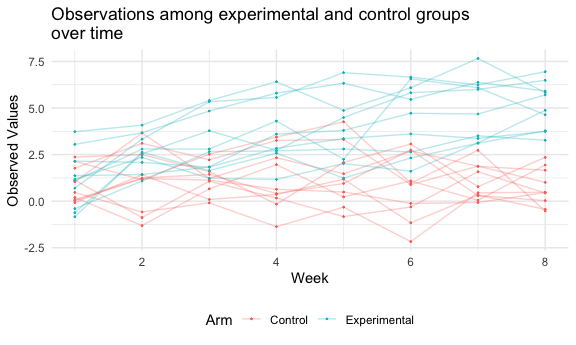
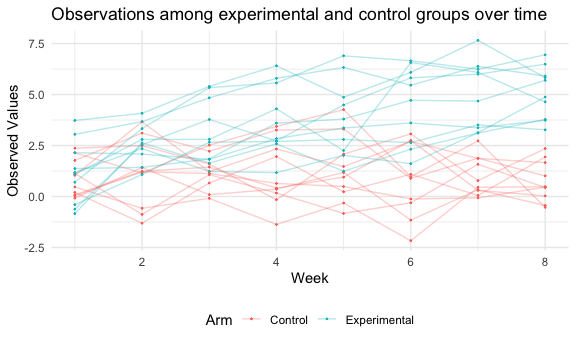
Edits to problems 2 and 3

diff --git a/p8105_hw5_hl2738.md b/p8105_hw5_hl2738.md
@@ -2,7 +2,7 @@ P8105 Homework 5
 ================
 Heidi Lumish
 
-## Problem 1
+## Problem 1: Homicides
 
 #### Import the data
 
@@ -24,17 +24,6 @@ homicides_df = read_csv(url(urlfile), na = c("", "Unknown")) %>%
   relocate(city_state) %>% 
   filter(city_state != "Tulsa, AL")
 ```
-
-    ## Rows: 52179 Columns: 12
-
-    ## ── Column specification ────────────────────────────────────────────────────────
-    ## Delimiter: ","
-    ## chr (8): uid, victim_last, victim_first, victim_race, victim_sex, city, stat...
-    ## dbl (4): reported_date, victim_age, lat, lon
-
-    ## 
-    ## ℹ Use `spec()` to retrieve the full column specification for this data.
-    ## ℹ Specify the column types or set `show_col_types = FALSE` to quiet this message.
 
 #### Baltimore, MD
 
@@ -59,12 +48,16 @@ baltimore_test =
 
 baltimore_test %>% 
   broom::tidy() %>% 
-  knitr::kable()
+  knitr::kable(
+    caption = "Estimate for proportion of unsolved homicides in Baltimore, MD"
+  )
 ```
 
 |  estimate | statistic | p.value | parameter |  conf.low | conf.high | method                                               | alternative |
 |----------:|----------:|--------:|----------:|----------:|----------:|:-----------------------------------------------------|:------------|
 | 0.6455607 |   239.011 |       0 |         1 | 0.6275625 | 0.6631599 | 1-sample proportions test with continuity correction | two.sided   |
+
+Estimate for proportion of unsolved homicides in Baltimore, MD
 
 #### All cities
 
@@ -178,7 +171,7 @@ results_df %>%
 
 <img src="p8105_hw5_hl2738_files/figure-gfm/unnamed-chunk-5-1.png" width="90%" />
 
-## Problem 2
+## Problem 2: Longitudinal Study
 
 #### Import and tidy the data
 
@@ -218,206 +211,6 @@ observations = files_df %>%
   mutate(week = as.numeric(week))
 ```
 
-    ## Rows: 1 Columns: 8
-
-    ## ── Column specification ────────────────────────────────────────────────────────
-    ## Delimiter: ","
-    ## dbl (8): week_1, week_2, week_3, week_4, week_5, week_6, week_7, week_8
-
-    ## 
-    ## ℹ Use `spec()` to retrieve the full column specification for this data.
-    ## ℹ Specify the column types or set `show_col_types = FALSE` to quiet this message.
-
-    ## Rows: 1 Columns: 8
-
-    ## ── Column specification ────────────────────────────────────────────────────────
-    ## Delimiter: ","
-    ## dbl (8): week_1, week_2, week_3, week_4, week_5, week_6, week_7, week_8
-
-    ## 
-    ## ℹ Use `spec()` to retrieve the full column specification for this data.
-    ## ℹ Specify the column types or set `show_col_types = FALSE` to quiet this message.
-
-    ## Rows: 1 Columns: 8
-
-    ## ── Column specification ────────────────────────────────────────────────────────
-    ## Delimiter: ","
-    ## dbl (8): week_1, week_2, week_3, week_4, week_5, week_6, week_7, week_8
-
-    ## 
-    ## ℹ Use `spec()` to retrieve the full column specification for this data.
-    ## ℹ Specify the column types or set `show_col_types = FALSE` to quiet this message.
-
-    ## Rows: 1 Columns: 8
-
-    ## ── Column specification ────────────────────────────────────────────────────────
-    ## Delimiter: ","
-    ## dbl (8): week_1, week_2, week_3, week_4, week_5, week_6, week_7, week_8
-
-    ## 
-    ## ℹ Use `spec()` to retrieve the full column specification for this data.
-    ## ℹ Specify the column types or set `show_col_types = FALSE` to quiet this message.
-
-    ## Rows: 1 Columns: 8
-
-    ## ── Column specification ────────────────────────────────────────────────────────
-    ## Delimiter: ","
-    ## dbl (8): week_1, week_2, week_3, week_4, week_5, week_6, week_7, week_8
-
-    ## 
-    ## ℹ Use `spec()` to retrieve the full column specification for this data.
-    ## ℹ Specify the column types or set `show_col_types = FALSE` to quiet this message.
-
-    ## Rows: 1 Columns: 8
-
-    ## ── Column specification ────────────────────────────────────────────────────────
-    ## Delimiter: ","
-    ## dbl (8): week_1, week_2, week_3, week_4, week_5, week_6, week_7, week_8
-
-    ## 
-    ## ℹ Use `spec()` to retrieve the full column specification for this data.
-    ## ℹ Specify the column types or set `show_col_types = FALSE` to quiet this message.
-
-    ## Rows: 1 Columns: 8
-
-    ## ── Column specification ────────────────────────────────────────────────────────
-    ## Delimiter: ","
-    ## dbl (8): week_1, week_2, week_3, week_4, week_5, week_6, week_7, week_8
-
-    ## 
-    ## ℹ Use `spec()` to retrieve the full column specification for this data.
-    ## ℹ Specify the column types or set `show_col_types = FALSE` to quiet this message.
-
-    ## Rows: 1 Columns: 8
-
-    ## ── Column specification ────────────────────────────────────────────────────────
-    ## Delimiter: ","
-    ## dbl (8): week_1, week_2, week_3, week_4, week_5, week_6, week_7, week_8
-
-    ## 
-    ## ℹ Use `spec()` to retrieve the full column specification for this data.
-    ## ℹ Specify the column types or set `show_col_types = FALSE` to quiet this message.
-
-    ## Rows: 1 Columns: 8
-
-    ## ── Column specification ────────────────────────────────────────────────────────
-    ## Delimiter: ","
-    ## dbl (8): week_1, week_2, week_3, week_4, week_5, week_6, week_7, week_8
-
-    ## 
-    ## ℹ Use `spec()` to retrieve the full column specification for this data.
-    ## ℹ Specify the column types or set `show_col_types = FALSE` to quiet this message.
-
-    ## Rows: 1 Columns: 8
-
-    ## ── Column specification ────────────────────────────────────────────────────────
-    ## Delimiter: ","
-    ## dbl (8): week_1, week_2, week_3, week_4, week_5, week_6, week_7, week_8
-
-    ## 
-    ## ℹ Use `spec()` to retrieve the full column specification for this data.
-    ## ℹ Specify the column types or set `show_col_types = FALSE` to quiet this message.
-
-    ## Rows: 1 Columns: 8
-
-    ## ── Column specification ────────────────────────────────────────────────────────
-    ## Delimiter: ","
-    ## dbl (8): week_1, week_2, week_3, week_4, week_5, week_6, week_7, week_8
-
-    ## 
-    ## ℹ Use `spec()` to retrieve the full column specification for this data.
-    ## ℹ Specify the column types or set `show_col_types = FALSE` to quiet this message.
-
-    ## Rows: 1 Columns: 8
-
-    ## ── Column specification ────────────────────────────────────────────────────────
-    ## Delimiter: ","
-    ## dbl (8): week_1, week_2, week_3, week_4, week_5, week_6, week_7, week_8
-
-    ## 
-    ## ℹ Use `spec()` to retrieve the full column specification for this data.
-    ## ℹ Specify the column types or set `show_col_types = FALSE` to quiet this message.
-
-    ## Rows: 1 Columns: 8
-
-    ## ── Column specification ────────────────────────────────────────────────────────
-    ## Delimiter: ","
-    ## dbl (8): week_1, week_2, week_3, week_4, week_5, week_6, week_7, week_8
-
-    ## 
-    ## ℹ Use `spec()` to retrieve the full column specification for this data.
-    ## ℹ Specify the column types or set `show_col_types = FALSE` to quiet this message.
-
-    ## Rows: 1 Columns: 8
-
-    ## ── Column specification ────────────────────────────────────────────────────────
-    ## Delimiter: ","
-    ## dbl (8): week_1, week_2, week_3, week_4, week_5, week_6, week_7, week_8
-
-    ## 
-    ## ℹ Use `spec()` to retrieve the full column specification for this data.
-    ## ℹ Specify the column types or set `show_col_types = FALSE` to quiet this message.
-
-    ## Rows: 1 Columns: 8
-
-    ## ── Column specification ────────────────────────────────────────────────────────
-    ## Delimiter: ","
-    ## dbl (8): week_1, week_2, week_3, week_4, week_5, week_6, week_7, week_8
-
-    ## 
-    ## ℹ Use `spec()` to retrieve the full column specification for this data.
-    ## ℹ Specify the column types or set `show_col_types = FALSE` to quiet this message.
-
-    ## Rows: 1 Columns: 8
-
-    ## ── Column specification ────────────────────────────────────────────────────────
-    ## Delimiter: ","
-    ## dbl (8): week_1, week_2, week_3, week_4, week_5, week_6, week_7, week_8
-
-    ## 
-    ## ℹ Use `spec()` to retrieve the full column specification for this data.
-    ## ℹ Specify the column types or set `show_col_types = FALSE` to quiet this message.
-
-    ## Rows: 1 Columns: 8
-
-    ## ── Column specification ────────────────────────────────────────────────────────
-    ## Delimiter: ","
-    ## dbl (8): week_1, week_2, week_3, week_4, week_5, week_6, week_7, week_8
-
-    ## 
-    ## ℹ Use `spec()` to retrieve the full column specification for this data.
-    ## ℹ Specify the column types or set `show_col_types = FALSE` to quiet this message.
-
-    ## Rows: 1 Columns: 8
-
-    ## ── Column specification ────────────────────────────────────────────────────────
-    ## Delimiter: ","
-    ## dbl (8): week_1, week_2, week_3, week_4, week_5, week_6, week_7, week_8
-
-    ## 
-    ## ℹ Use `spec()` to retrieve the full column specification for this data.
-    ## ℹ Specify the column types or set `show_col_types = FALSE` to quiet this message.
-
-    ## Rows: 1 Columns: 8
-
-    ## ── Column specification ────────────────────────────────────────────────────────
-    ## Delimiter: ","
-    ## dbl (8): week_1, week_2, week_3, week_4, week_5, week_6, week_7, week_8
-
-    ## 
-    ## ℹ Use `spec()` to retrieve the full column specification for this data.
-    ## ℹ Specify the column types or set `show_col_types = FALSE` to quiet this message.
-
-    ## Rows: 1 Columns: 8
-
-    ## ── Column specification ────────────────────────────────────────────────────────
-    ## Delimiter: ","
-    ## dbl (8): week_1, week_2, week_3, week_4, week_5, week_6, week_7, week_8
-
-    ## 
-    ## ℹ Use `spec()` to retrieve the full column specification for this data.
-    ## ℹ Specify the column types or set `show_col_types = FALSE` to quiet this message.
-
 #### Spaghetti plot
 
 Next we will make a spaghetti plot showing observations on each subject
@@ -429,7 +222,7 @@ observations %>%
   geom_point(size = .2) + 
   geom_line(aes(group = interaction(arm, subject_id)), alpha = .3) +
   labs(
-    title = "Observations among experimental and control groups \nover time",
+    title = "Observations among experimental and control groups over time",
     x = "Week",
     y = "Observed Values") +
   scale_color_discrete(name = "Arm", labels = c("Control", "Experimental"))
@@ -441,26 +234,10 @@ The spaghetti plot shows that the values among the control subjects are
 relatively constant over time, whereas the values for the experimental
 subjects increase over time.
 
-Alternative to maps function above
+## Problem 3: Iris dataset
 
-``` r
-files_df %>% 
-  mutate(data = subject_data(file_name)) %>% view()
-```
-
-    ## Rows: 20 Columns: 8
-
-    ## ── Column specification ────────────────────────────────────────────────────────
-    ## Delimiter: ","
-    ## dbl (8): week_1, week_2, week_3, week_4, week_5, week_6, week_7, week_8
-
-    ## 
-    ## ℹ Use `spec()` to retrieve the full column specification for this data.
-    ## ℹ Specify the column types or set `show_col_types = FALSE` to quiet this message.
-
-## Problem 3
-
-#### Load the iris dataset and introduce missing values
+First we will load the iris dataset and introduce missing values, using
+the sample code.
 
 ``` r
 set.seed(10)
@@ -470,7 +247,10 @@ iris_with_missing = iris %>%
   mutate(Species = as.character(Species))
 ```
 
-Write a function that replaces missing values
+Next, we will write a function that replaces missing values. For numeric
+variables, the missing values will be filled in with the mean of the
+non-missing variables. For character variables, missing values will be
+filled in with “virginica.”
 
 ``` r
 missing = function(x){
@@ -478,7 +258,7 @@ missing = function(x){
     x[is.na(x)] <- "virginica"
   }
   
-  if (!is.character(x)) {
+  if (is.numeric(x)) {
 
   x[is.na(x)] <- mean(x, na.rm = TRUE)
 
@@ -486,22 +266,24 @@ missing = function(x){
   
   return(x)
 }
-
-iris_with_missing %>%
-  map_df(missing)
 ```
 
-    ## # A tibble: 150 × 5
-    ##    Sepal.Length Sepal.Width Petal.Length Petal.Width Species
-    ##           <dbl>       <dbl>        <dbl>       <dbl> <chr>  
-    ##  1         5.1          3.5         1.4         0.2  setosa 
-    ##  2         4.9          3           1.4         0.2  setosa 
-    ##  3         4.7          3.2         1.3         0.2  setosa 
-    ##  4         4.6          3.1         1.5         1.19 setosa 
-    ##  5         5            3.6         1.4         0.2  setosa 
-    ##  6         5.4          3.9         1.7         0.4  setosa 
-    ##  7         5.82         3.4         1.4         0.3  setosa 
-    ##  8         5            3.4         1.5         0.2  setosa 
-    ##  9         4.4          2.9         1.4         0.2  setosa 
-    ## 10         4.9          3.1         3.77        0.1  setosa 
-    ## # … with 140 more rows
+Next we will apply the “missing” function written above to the
+iris\_with\_missing dataset and create a new dataset named
+iris\_no\_missing. By counting “NA” values, we see that the 100 missing
+values have now been filled in.
+
+``` r
+iris_no_missing = iris_with_missing %>%
+  map_df(missing)
+
+sum(is.na(iris_with_missing))
+```
+
+    ## [1] 100
+
+``` r
+sum(is.na(iris_no_missing))
+```
+
+    ## [1] 0
